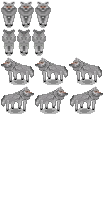
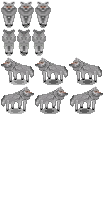
Added wolf walking animation

diff --git a/src/PixelEngine/mod.rs b/src/PixelEngine/mod.rs
@@ -186,7 +186,6 @@ impl pixelEngine {
     pub fn update(&mut self,  textureVec: &Vec<Texture>) {
         self.mainCharacter.update();
         for mut enemy in self.enemies.iter_mut() {
-            //add enemy movement updates here
             let enemyUsedHitbox = FRect::new(
                 enemy.hitBox.x + enemy.hitBox.w * 0.1,
                 enemy.hitBox.y + enemy.hitBox.h * 0.1,
@@ -201,7 +200,7 @@ impl pixelEngine {
                 }
             }
             if hitboxDetector(enemy.hitBox, self.mainCharacter.swordAttack.hitBox) {
-                let speed = 2.0;
+                let speed = 1.0;
                 let mainPosX = self.mainCharacter.x + self.meshBox.x * 6.0;
                 let mainPosY = self.mainCharacter.y + self.meshBox.y * 6.0;
 
@@ -250,7 +249,7 @@ impl pixelEngine {
                 removeEnemy.push(enemy);
             }
         }
-        removeEnemy.sort_by(|a, b| a.partial_cmp(b).unwrap());
+        removeEnemy.sort_by(|a, b| b.cmp(a));
         for enemy in removeEnemy {
             self.enemies.remove(enemy);
         }

diff --git a/src/PixelEngine/basic.rs b/src/PixelEngine/basic.rs
@@ -344,14 +344,14 @@ pub struct enemy {
     pub x: f32,
     pub y: f32,
     pub(crate) direction: String,
-    walkingPhase: usize,
+    pub(crate) walkingPhase: usize,
     enemyUp: Vec<FRect>,
     enemyDown: Vec<FRect>,
     enemyRight: Vec<FRect>,
     enemyLeft: Vec<FRect>,
     pub hitBox: FRect,
     pub health: f32,
-    lastPhaseChange: Instant,
+    pub(crate) lastPhaseChange: Instant,
     pub render: bool,
     pub timeSinceHit: Instant,
     pub(crate) roam: bool,
@@ -403,13 +403,6 @@ impl enemy {
         renderer.copy(&textureVec[self.texturePos], rectSet[self.walkingPhase], self.hitBox).unwrap();
     }
     pub fn update(&mut self) {
-        /*if self.lastPhaseChange.elapsed().as_millis() >= 200 {
-            self.walkingPhase += 1;
-            if self.walkingPhase > 2 {
-                self.walkingPhase = 1;
-            }
-            self.lastPhaseChange = Instant::now();
-        }*/
         if self.timeSinceHit.elapsed().as_millis() <= 250 {
             self.render = !self.render;
         }

diff --git a/src/PixelEngine/attack.rs b/src/PixelEngine/attack.rs
@@ -1,3 +1,4 @@
+use std::time::Instant;
 use sdl3::render::Texture;
 use crate::PixelEngine::basic::{enemy, mainCharacter, meshBox};
 
@@ -16,7 +17,15 @@ impl attacks {
     }
 }
 fn missileAttack (mainCharacter: &mainCharacter, backgroundTexture: &Texture, meshBox: &meshBox, enemy: &mut enemy) {
-    let speed = 0.7;
+    if enemy.lastPhaseChange.elapsed().as_millis() >= 200 {
+        enemy.walkingPhase += 1;
+        if enemy.walkingPhase > 1 {
+            enemy.walkingPhase = 0;
+        }
+        enemy.lastPhaseChange = Instant::now();
+    }
+
+    let speed = 1.0;
     let mainPosX = mainCharacter.x + meshBox.x * 6.0;
     let mainPosY = mainCharacter.y + meshBox.y * 6.0;
 
